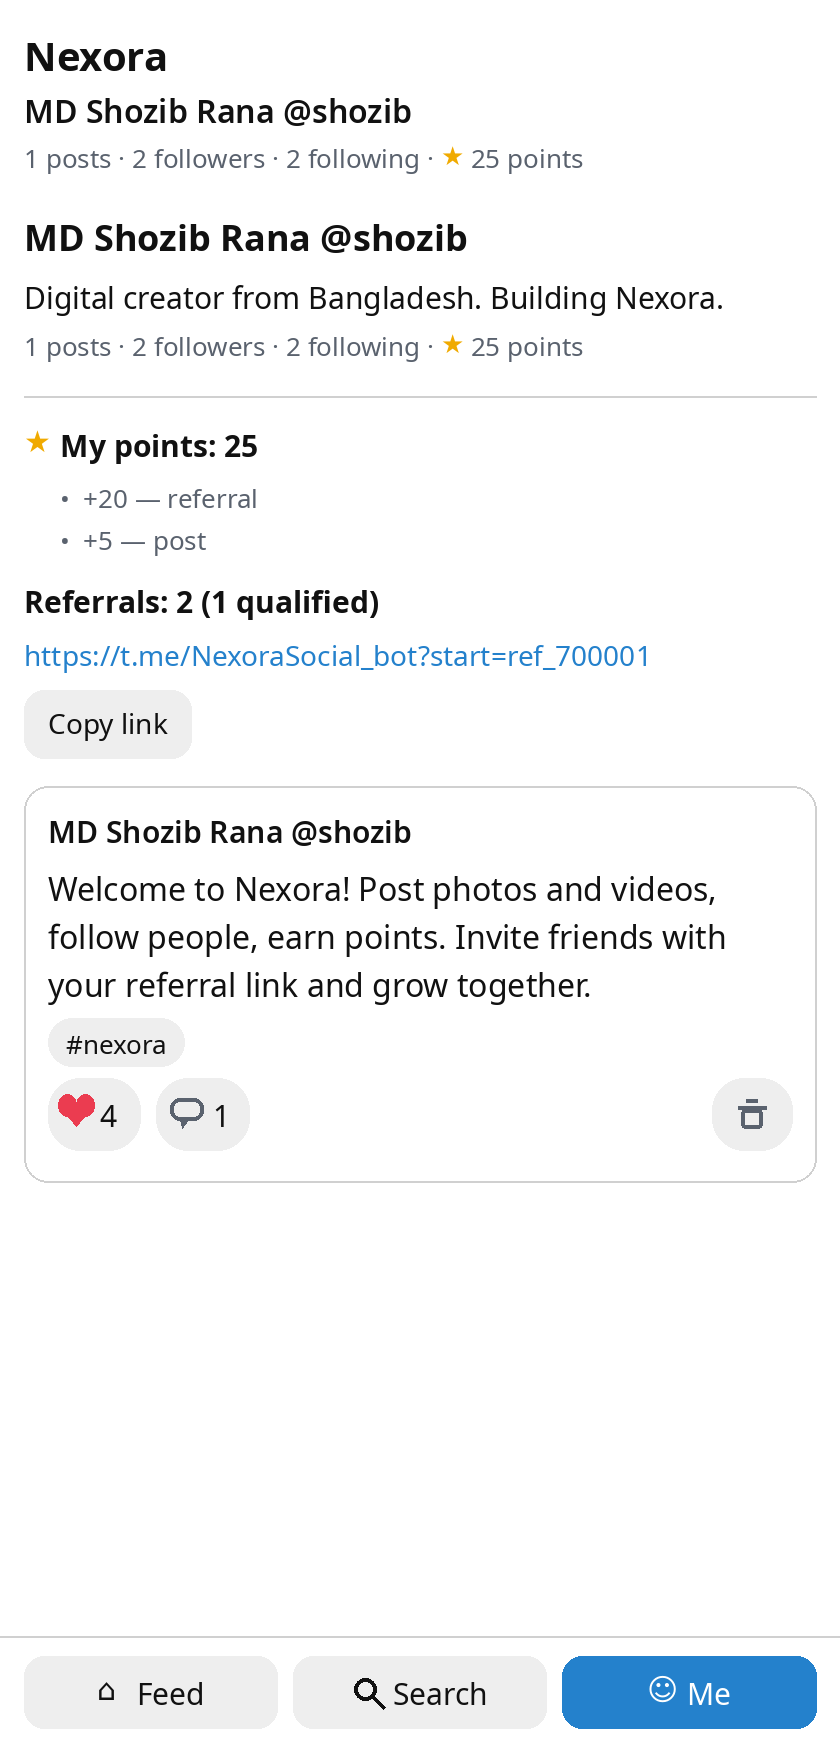
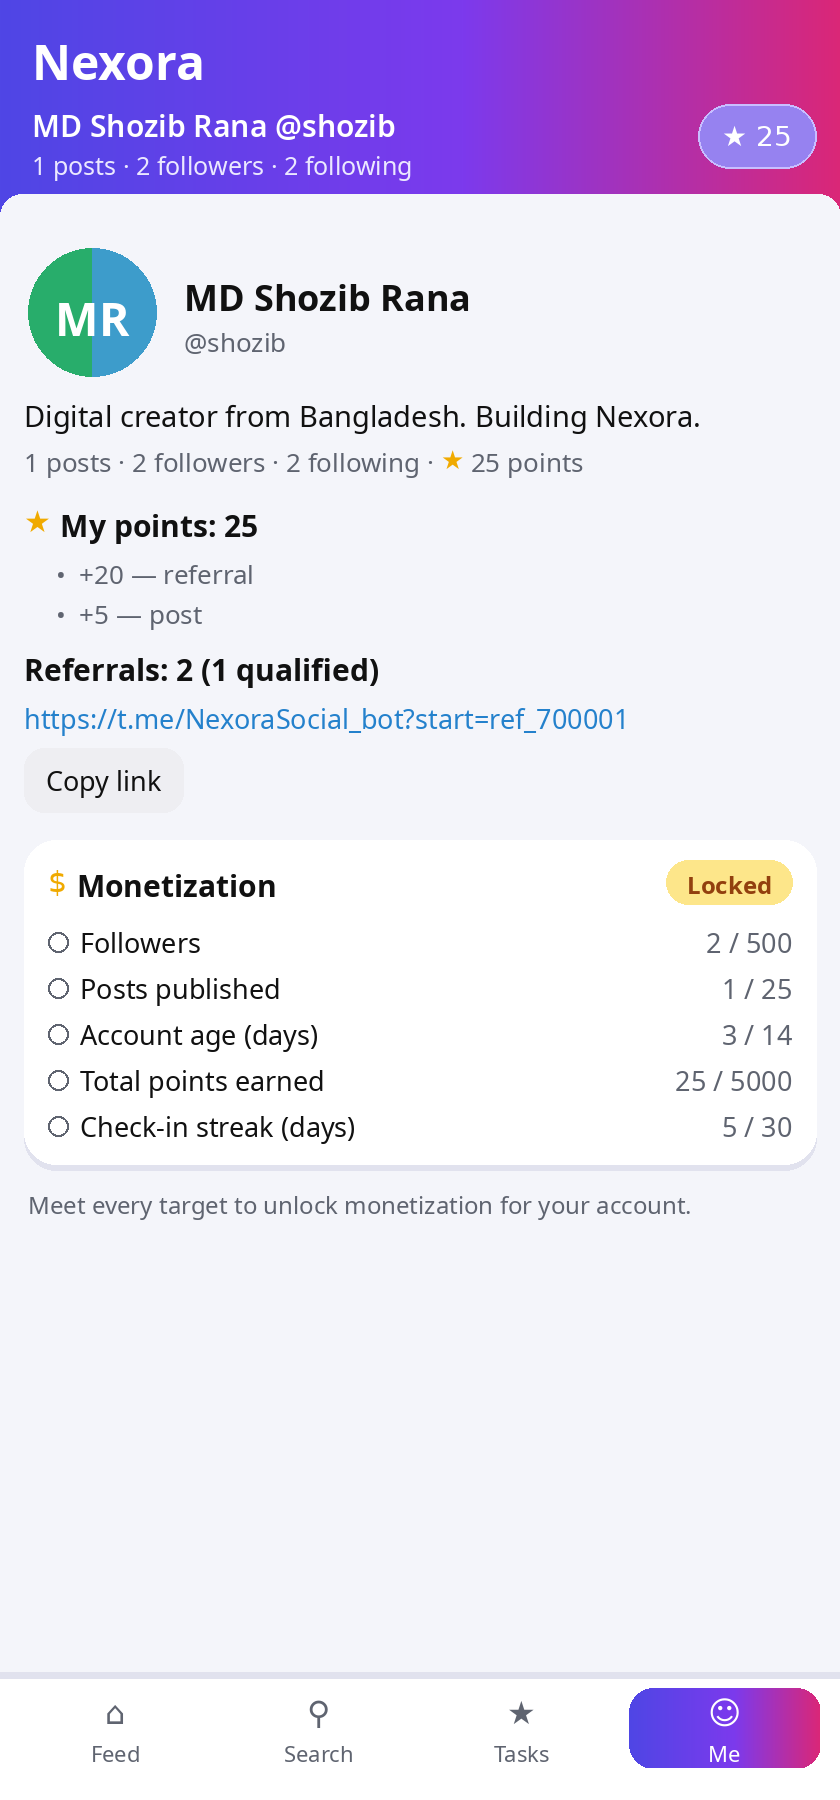
Owner numbers: tasks 20/5/5, monetization 500 followers + 5000 points + 30-day streak

Changed region(s): [[0.0, 0.0, 1.0, 0.6875], [0.0, 0.9062, 1.0, 1.0], [0.3405, 0.9688, 0.3714, 1.0]]

diff --git a/code/webapp/app.js b/code/webapp/app.js
@@ -419,7 +419,8 @@ async function loadTasks() {
       const meta = document.createElement("div");
       meta.className = "task-meta";
       const prog = document.createElement("span");
-      prog.textContent = t.progress + " / " + t.target;
+      prog.textContent = t.progress + " / " + t.target +
+        (t.streak != null ? " · 🔥 " + t.streak + " day streak" : "");
       const btn = document.createElement("button");
       if (t.claimed) {
         btn.textContent = "✓ Claimed";

diff --git a/code/test_phase6.py b/code/test_phase6.py
@@ -1,5 +1,7 @@
-"""Phase-6 tests: daily tasks (check-in / follow 2 / comment 5, once per
-day) and the monetization gate checklist + unlock."""
+"""Phase-6 tests: daily tasks (check-in 20 / follow-2 5 / comment-5 5,
+once per day), the 30-day unbroken check-in streak, and the monetization
+gate (followers 500, posts 25, age 14d, lifetime points 5000, streak 30).
+Numbers per the owner's update, Oct 31."""
 import hashlib, hmac, json, os, urllib.parse
 from datetime import datetime, timedelta
 
@@ -33,6 +35,7 @@ def H(uid, name):
     return {"X-Init-Data": make_init_data({"id": uid, "first_name": name})}
 
 CAROL, DAVE, ERIN = H(333, "Carol"), H(444, "Dave"), H(555, "Erin")
+TODAY = datetime.utcnow().date()
 
 with TestClient(app) as c:
     for h in (CAROL, DAVE, ERIN):
@@ -42,61 +45,78 @@ with TestClient(app) as c:
     tasks = c.get("/me/tasks", headers=CAROL).json()["tasks"]
     by_key = {t["key"]: t for t in tasks}
     assert set(by_key) == {"checkin", "follow2", "comment5"}, by_key
-    assert by_key["checkin"]["claimable"] is True
-    assert by_key["follow2"]["progress"] == 0 and by_key["follow2"]["claimable"] is False
-    assert by_key["comment5"]["target"] == 5
-    print("task list + initial state OK")
+    assert by_key["checkin"]["points"] == 20 and by_key["checkin"]["claimable"] is True
+    assert by_key["follow2"]["points"] == 5 and by_key["comment5"]["points"] == 5
+    assert by_key["checkin"]["streak"] == 0
+    print("task list + owner point values OK")
 
     r = c.post("/me/tasks/follow2/claim", headers=CAROL)
     assert r.status_code == 400
     r = c.post("/me/tasks/nope/claim", headers=CAROL)
     assert r.status_code == 404
     r = c.post("/me/tasks/checkin/claim", headers=CAROL)
-    assert r.json() == {"ok": True, "points_awarded": 10, "balance": 10}, r.json()
+    assert r.json() == {"ok": True, "points_awarded": 20, "balance": 20}, r.json()
     r = c.post("/me/tasks/checkin/claim", headers=CAROL)
     assert r.status_code == 400, "second check-in claim must be refused"
-    print("check-in: claim once, second claim refused OK")
+    t = {x["key"]: x for x in c.get("/me/tasks", headers=CAROL).json()["tasks"]}
+    assert t["checkin"]["streak"] == 1
+    print("check-in: +20 once, second claim refused, streak 1 OK")
 
     c.post("/users/444/follow", headers=CAROL)
-    t = {x["key"]: x for x in c.get("/me/tasks", headers=CAROL).json()["tasks"]}
-    assert t["follow2"]["progress"] == 1 and t["follow2"]["claimable"] is False
     c.post("/users/555/follow", headers=CAROL)
     r = c.post("/me/tasks/follow2/claim", headers=CAROL)
-    assert r.json()["points_awarded"] == 20 and r.json()["balance"] == 30
-    print("follow-2 task: progress counts, claim pays OK")
-
+    assert r.json()["points_awarded"] == 5 and r.json()["balance"] == 25
     post = c.post("/posts", headers=DAVE,
                   json={"type": "text", "caption": "Dave post"}).json()
-    for i in range(4):
+    for i in range(5):
         c.post(f"/posts/{post['id']}/comments", headers=CAROL,
                json={"text": f"c{i}"})
-    t = {x["key"]: x for x in c.get("/me/tasks", headers=CAROL).json()["tasks"]}
-    assert t["comment5"]["progress"] == 4 and t["comment5"]["claimable"] is False
-    c.post(f"/posts/{post['id']}/comments", headers=CAROL, json={"text": "c5"})
     r = c.post("/me/tasks/comment5/claim", headers=CAROL)
-    assert r.json()["points_awarded"] == 20 and r.json()["balance"] == 50
-    print("comment-5 task OK")
+    assert r.json()["points_awarded"] == 5 and r.json()["balance"] == 30
+    print("follow-2 (+5) and comment-5 (+5) tasks OK")
 
     mon = c.get("/me/monetization", headers=CAROL).json()
     assert mon["unlocked"] is False
     checks = {x["key"]: x for x in mon["checks"]}
-    assert checks["followers"]["required"] == 100 and checks["followers"]["done"] is False
-    assert checks["lifetime_points"]["current"] == 50
-    print("monetization gate: locked with honest progress OK")
+    assert checks["followers"]["required"] == 500
+    assert checks["lifetime_points"]["required"] == 5000
+    assert checks["lifetime_points"]["current"] == 30
+    assert checks["checkin_streak"]["required"] == 30
+    assert checks["checkin_streak"]["current"] == 1
+    print("monetization gate: owner targets, locked state OK")
 
+    # Streak rules: a gap kills it; yesterday-ending streak stays alive.
     db = SessionLocal()
+    for back in range(2, 7):  # Dave: 5 days ending 2 days ago (gap yesterday)
+        db.add(models.DailyClaim(user_id=444, task_key="checkin",
+                                 day=(TODAY - timedelta(days=back)).isoformat()))
+    for back in (1, 2):       # Erin: yesterday + day before, none today
+        db.add(models.DailyClaim(user_id=555, task_key="checkin",
+                                 day=(TODAY - timedelta(days=back)).isoformat()))
+    db.commit()
+    mon_d = c.get("/me/monetization", headers=DAVE).json()
+    streak_d = {x["key"]: x for x in mon_d["checks"]}["checkin_streak"]["current"]
+    assert streak_d == 0, streak_d
+    t_e = {x["key"]: x for x in c.get("/me/tasks", headers=ERIN).json()["tasks"]}
+    assert t_e["checkin"]["streak"] == 2, t_e["checkin"]
+    print("streak: missed day breaks it, yesterday-ending streak alive OK")
+
+    # Unlock Carol: age, 500 followers, 25 posts, 5000 lifetime, 30-day streak.
     carol = db.get(models.User, 333)
     carol.created_at = datetime.utcnow() - timedelta(days=20)
-    for i in range(100):
+    for i in range(500):
         db.add(models.Follow(follower_id=900000 + i, following_id=333))
     for i in range(25):
         db.add(models.Post(user_id=333, type="text", caption=f"bulk {i}"))
-    db.add(models.PointsLedger(user_id=333, amount=450, reason="bonus"))
+    db.add(models.PointsLedger(user_id=333, amount=4970, reason="bonus"))
+    for back in range(1, 30):  # today already claimed -> streak 30 total
+        db.add(models.DailyClaim(user_id=333, task_key="checkin",
+                                 day=(TODAY - timedelta(days=back)).isoformat()))
     db.commit()
     db.close()
     mon = c.get("/me/monetization", headers=CAROL).json()
     assert mon["unlocked"] is True, mon
     assert all(x["done"] for x in mon["checks"])
-    print("monetization unlocks when every target is met OK")
+    print("monetization unlocks when every target incl. 30-day streak is met OK")
 
 print("PHASE-6 TESTS PASSED")

diff --git a/code/app/main.py b/code/app/main.py
@@ -11,7 +11,7 @@ from fastapi.staticfiles import StaticFiles
 from pydantic import BaseModel
 from sqlalchemy.orm import Session
 
-from datetime import datetime
+from datetime import datetime, timedelta
 
 from . import models, notify
 from .config import DAILY_TASKS, MONETIZATION, settings
@@ -421,13 +421,29 @@ def _task_progress(db, user_id, task, day_start, claimed):
     return 0
 
 
+def _checkin_streak(db, user_id):
+    """Consecutive days with a check-in claim, ending today (or yesterday
+    if today is not claimed yet — the streak is still alive until the day
+    ends). One missed day breaks it: the count simply stops there."""
+    days = {r[0] for r in db.query(models.DailyClaim.day).filter_by(
+        user_id=user_id, task_key="checkin").all()}
+    cur = datetime.utcnow().date()
+    if cur.isoformat() not in days:
+        cur -= timedelta(days=1)
+    streak = 0
+    while cur.isoformat() in days:
+        streak += 1
+        cur -= timedelta(days=1)
+    return streak
+
+
 def _task_state(db, user, task):
     day, day_start = _today()
     claimed = db.query(models.DailyClaim).filter_by(
         user_id=user.telegram_id, task_key=task["key"], day=day).first()
     progress = _task_progress(db, user.telegram_id, task, day_start,
                               bool(claimed))
-    return {
+    state = {
         "key": task["key"], "title": task["title"], "icon": task["icon"],
         "target": task["target"], "points": task["points"],
         "progress": min(progress, task["target"]),
@@ -435,6 +451,9 @@ def _task_state(db, user, task):
         "claimable": (not claimed) and (
             task["metric"] == "checkin" or progress >= task["target"]),
     }
+    if task["metric"] == "checkin":
+        state["streak"] = _checkin_streak(db, user.telegram_id)
+    return state
 
 
 @app.get("/me/tasks")
@@ -489,6 +508,9 @@ def my_monetization(user: models.User = Depends(current_user),
          "current": age_days, "required": MONETIZATION["account_days"]},
         {"key": "lifetime_points", "label": "Total points earned",
          "current": earned, "required": MONETIZATION["lifetime_points"]},
+        {"key": "checkin_streak", "label": "Check-in streak (days, no misses)",
+         "current": _checkin_streak(db, user.telegram_id),
+         "required": MONETIZATION["checkin_streak"]},
     ]
     for c in checks:
         c["done"] = c["current"] >= c["required"]

diff --git a/code/app/config.py b/code/app/config.py
@@ -28,19 +28,21 @@ POINTS = {"post": 5, "referral": 20}
 #   comments -> Comment rows the user wrote today
 DAILY_TASKS = [
     {"key": "checkin", "title": "Daily check-in", "icon": "📅",
-     "target": 1, "points": 10, "metric": "checkin"},
+     "target": 1, "points": 20, "metric": "checkin"},
     {"key": "follow2", "title": "Follow 2 people", "icon": "👥",
-     "target": 2, "points": 20, "metric": "follows"},
+     "target": 2, "points": 5, "metric": "follows"},
     {"key": "comment5", "title": "Write 5 comments", "icon": "💬",
-     "target": 5, "points": 20, "metric": "comments"},
+     "target": 5, "points": 5, "metric": "comments"},
 ]
 
 # Monetization gate (owner request, Oct 31): ALL targets must be met
-# before a creator's monetization unlocks. PLACEHOLDER targets — the
-# owner can adjust these numbers freely.
+# before a creator's monetization unlocks. Numbers set by the owner:
+# followers 500, lifetime points 5000, and a 30-day UNBROKEN check-in
+# streak (one missed day resets the streak to zero).
 MONETIZATION = {
-    "followers": 100,        # at least this many followers
+    "followers": 500,        # at least this many followers
     "posts": 25,             # at least this many live posts
     "account_days": 14,      # account at least this many days old
-    "lifetime_points": 500,  # at least this many points earned in total
+    "lifetime_points": 5000,  # at least this many points earned in total
+    "checkin_streak": 30,    # consecutive daily check-ins, no misses
 }

diff --git a/PRD_Telegram_Social_Platform_BN.md b/PRD_Telegram_Social_Platform_BN.md
@@ -142,3 +142,13 @@
 
 ---
 *এই ডকুমেন্টটাই প্রজেক্টের মূল পরিকল্পনা। সিদ্ধান্ত বদলালে এখানেই হালনাগাদ হবে, যাতে বানানোর সময় সবাই (মানুষ ও AI) একই পরিকল্পনা দেখে।*
+
+---
+
+## সংযোজন (৩১ অক্টোবর ২০২৬) — মালিকের নতুন নির্দেশনা
+
+1. **ডেইলি টাস্ক**: প্রতিদিন একবার করে পয়েন্ট পাওয়ার টাস্ক — Daily check-in (+১০), ২ জনকে ফলো (+২০), ৫টা কমেন্ট (+২০)। প্রগ্রেস ওই দিনের আসল অ্যাক্টিভিটি থেকে গোনা হয়; `daily_claims` টেবিলের unique row দিয়ে দিনে একবারের বেশি claim আটকানো হয়। মানগুলো `app/config.py`-র `DAILY_TASKS`-এ — মালিক চাইলে বদলাতে পারবেন।
+2. **মনিটাইজেশন গেট**: সব টার্গেট পূরণ না হলে মনিটাইজেশন আনলক হবে না — Followers ১০০, Posts ২৫, Account age ১৪ দিন, Total points earned ৫০০ (`config.MONETIZATION`, placeholder — মালিক বদলাতে পারবেন)। `/me/monetization` চেকলিস্ট ও Locked/Unlocked স্ট্যাটাস দেয়; পেআউট পরের ফেজে।
+3. **ইউনিক UI**: গ্রেডিয়েন্ট ব্র্যান্ড হেডার (indigo→violet→pink), নামের আদ্যক্ষরের গ্রেডিয়েন্ট অ্যাভাটার, শ্যাডোসহ কার্ড, সেগমেন্টেড ট্যাব, গ্রেডিয়েন্ট অ্যাক্টিভ বোতাম — পুরো Mini App-জুড়ে নতুন ডিজাইন।
+
+**সংশোধন (মালিক, ৩১ অক্টোবর সন্ধ্যা):** টাস্ক পয়েন্ট — check-in ২০, follow-2 ৫, comment-5 ৫। মনিটাইজেশন টার্গেট — Followers ৫০০, মোট পয়েন্ট ৫০০০, এবং নতুন শর্ত: **টানা ৩০ দিন চেক-ইন স্ট্রিক** (একদিন মিস হলেই স্ট্রিক শূন্য থেকে শুরু)। আগের সংখ্যাগুলো (১০/২০/২০, ১০০ ফলোয়ার, ৫০০ পয়েন্ট) বাতিল।
